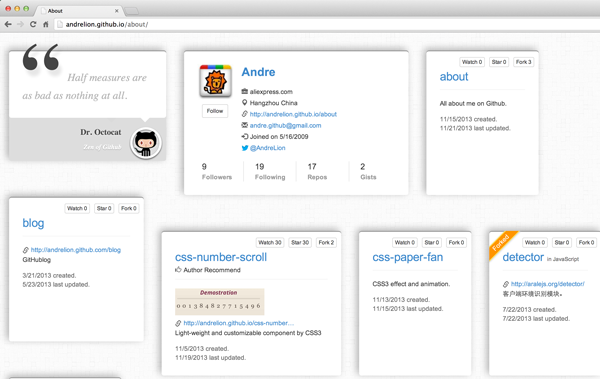
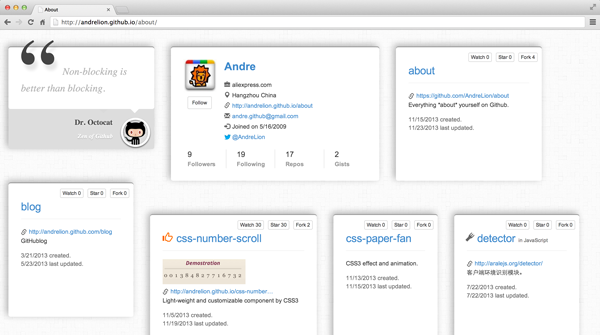
update

diff --git a/css/style.css b/css/style.css
@@ -1,3 +1,13 @@
+/*
+ * Stylesheet for Github About Page
+ * 
+ * https://github.com/AndreLion/about
+ * 
+ * At bottom of thie file, there is Customization Zone, 
+ * you can add your own stylesheet there to control your 
+ * repository card's style. Making the layout looks beeter. 
+ * 
+ */
 body { background:#fefefe url(../assets/bg.png) repeat 0 0 scroll; }
 .glyphicon { color:#666;margin-right:5px; }
 .box { font-family: "Helvetica Nenu",Hevetica,Arial,sans-serif;background-color:#DDD;border-radius:5px;margin:40px 20px;box-shadow:-5px -4px 25px rgba(0, 0, 0, 0.3); }
@@ -45,7 +55,8 @@ body { background:#fefefe url(../assets/bg.png) repeat 0 0 scroll; }
 .namecard .twitter .text:before { content:'@'; }
 
 .repocard { float:left;background-color:#FFF;overflow:hidden; }
-.repocard.forked:before { -webkit-transform:rotate(-45deg);content:'Forked';position:absolute;top:14px;background-color:#fd9419;padding:0 25px;left:-24px;color:#FFF;border:2px solid #fbe26e;box-shadow:0px 1px 5px #CCC; }
+/*.repocard.forked:before { -webkit-transform:rotate(-45deg);content:'Forked';position:absolute;top:14px;background-color:#fd9419;padding:0 25px;left:-24px;color:#FFF;border:2px solid #fbe26e;box-shadow:0px 1px 5px #CCC; }*/
+.repocard.forked .fkd { font-size:24px;width:16px;overflow:hidden;-webkit-transform: rotate(45deg);transform: rotate(45deg); }
 .repocard .inner { padding-top:40px; }
 .repocard .action { float:right;margin-right:10px;margin-top:15px; }
 .repocard .action span { padding-left:3px; }
@@ -59,16 +70,23 @@ body { background:#fefefe url(../assets/bg.png) repeat 0 0 scroll; }
 .repocard .created_at { color:#666;margin-top:15px; }
 .repocard .updated_at { color:#666; }
 .repocard.proud .name { font-size:38px; }
-.repocard .rcmd { display:none; }
-.repocard.recommend .rcmd { display:block; }
+.repocard.recommend .rcmd { font-size:24px;color:#f60; }
+
+.aboutcard { line-height:26px; }
 
 .resp404 { font-size:18px; }
 .resp404 img { width:160px;height:160px;display:inline-block; }
 
 
-/*----------------------------------------*/
+/*
+ * Customization Zone
+ * Rule : 'repo-' is prefix, you can find your repository card by class name 'repo-your-github-repo-name'
+ */
+
+/*----Example---*/
 .repo-facebook-weibo-login { width:600px !important; }
 .repo-facebook-weibo-login .image { width:250px; }
 .repo-css-number-scroll { width:400px !important; }
 .repo-css-number-scroll .image { height:60px;width:199px; }
 .repo-css-number-scroll .homepage { display:block;margin-top:87px; }
+/*----Example---*/

diff --git a/js/about.js b/js/about.js
@@ -1,4 +1,10 @@
-_USER_DEFINE_ = _USER_DEFINE_ || {};
+/*
+ * Javascript for Github About Page
+ * 
+ * https://github.com/AndreLion/about
+ * 
+ */
+var _CUSTOMSIZE_CONFIGURATION_ = _CUSTOMSIZE_CONFIGURATION_ || {};
 var apiDomain = 'https://api.github.com';
 var username;
 var preview = false;
@@ -8,7 +14,6 @@ if(location.search.indexOf('?gid=') === 0 ){
 }else if(location.hostname.indexOf('github.io') !== -1){
 	username = location.hostname.split('.')[0];
 }else{
-	//username = 'weierophinney';
 	username = 'andrelion';
 }
 var GITHUB_CALLBACK = {};
@@ -74,7 +79,7 @@ GITHUB_CALLBACK['_users_'+username]= function(resp){
 		node.find('.hireable').remove();
 	}
 	var t;
-	if(_USER_DEFINE_.info && _USER_DEFINE_.info[user.login] && (t =_USER_DEFINE_.info[user.login].twitter)){
+	if(_CUSTOMSIZE_CONFIGURATION_.userinfo && _CUSTOMSIZE_CONFIGURATION_.userinfo[user.login] && (t =_CUSTOMSIZE_CONFIGURATION_.userinfo[user.login].twitter)){
 		node.find('.twitter').attr('href','http://twitter.com/'+t).find('.text').text(t);
 	}else{
 		node.find('.twitter').remove();
@@ -125,7 +130,7 @@ var renderZen = function(quote){
 };
 
 var renderAbout = function(){
-	var node = $('#tpl-wrap .about').clone();
+	var node = $('#tpl-wrap .aboutcard').clone();
 	node.appendTo('body>.content');
 	$('.content').packery('appended',node);
 	$('#progress').css({
@@ -150,7 +155,7 @@ var renderRepos = function(){
 	}
 	for(i=0,l=repos.length;i<l;i++){
 		r = repos[i];
-		if(_USER_DEFINE_.ignore && _USER_DEFINE_.ignore[r.name]){
+		if(_CUSTOMSIZE_CONFIGURATION_.ignore && _CUSTOMSIZE_CONFIGURATION_.ignore[r.name]){
 			repos.splice(i,1);
 			l--;
 			continue;
@@ -199,15 +204,19 @@ var renderRepos = function(){
 		}
 		if(repo.fork){
 			node.addClass('forked');
+		}else{
+			node.find('.fkd').remove();
 		}
 		if(threshold !== -1 && repo.score >= threshold){
 			node.addClass('proud').find('.description').addClass('lead');
 		}
-		if(_USER_DEFINE_.recommend && _USER_DEFINE_.recommend[repo.name]){
+		if(_CUSTOMSIZE_CONFIGURATION_.recommend && _CUSTOMSIZE_CONFIGURATION_.recommend[repo.name]){
 			node.addClass('recommend');
+		}else{
+			node.find('.rcmd').remove();
 		}
-		if(_USER_DEFINE_.image && _USER_DEFINE_.image[repo.name]){
-			node.find('.image').attr('src',_USER_DEFINE_.image[repo.name]);
+		if(_CUSTOMSIZE_CONFIGURATION_.image && _CUSTOMSIZE_CONFIGURATION_.image[repo.name]){
+			node.find('.image').attr('src',_CUSTOMSIZE_CONFIGURATION_.image[repo.name]);
 		}else{
 			node.find('.image').remove();
 		}

diff --git a/index.html b/index.html
@@ -67,10 +67,11 @@
 			<a target="blank" href="#" class="btn btn-default btn-xs watch action html_url" role="button">Watch<span class="watchers_count"></span></a>
 			<div class="inner">
 				<span class="repo-name">
+					<span class="glyphicon glyphicon-cutlery fkd" title="Forked"></span>
+					<span class="glyphicon glyphicon-thumbs-up rcmd" title="Author Recommend"></span>
 					<a target="blank" class="name html_url"></a>
 					<span class="language"></span>
 				</span>
-				<div class="rcmd"><span class="glyphicon glyphicon-thumbs-up"></span>Author Recommend</div>
 				<hr />
 				<img class="image img-responsive" /> 
 				<span class="homepage"><span class="glyphicon glyphicon-link"></span><a target="blank"></a></span>
@@ -85,15 +86,15 @@
 				<span class="name"></span> doesn’t have any public repositories yet.
 			</div>
 		</div>
-		<div class="about box">
+		<div class="aboutcard box">
 			<div class="inner">
-				This is a github repo called About created by AndreLion.
+				This is a <a href="https://github.com/AndreLion/about" target="_blank">Github About Page</a> written by <a href="http://andrelion.github.io/about" target="_blank">Andre</a>.
 				<br />
-				Powered by GIthub API, Bootstrap and Packery.
+				Powered by jQuery, Bootstrap, Github API and <a href="packery.metafizzy.co" target="_blank">Packery</a>.
 				<br />
-				<a target="_top" href="preview/"> Preview Your Page</a>
-				<br />
-				<a target="_blank" href="https://github.com/AndreLion/about">How to deploy your own about page?</a>
+				GPL v3 Licesend.
+				<hr />
+				<a target="_top" href="preview/">Preview your own page</a> & <a target="_blank" href="https://github.com/AndreLion/about#how-to-get-your-own-github-about-page">make it real</a>.
 			</div>
 		</div>
 		<div class="nouser resp404 box">

diff --git a/preview/index.html b/preview/index.html
@@ -19,7 +19,7 @@
 			<input type="text" class="form-control" name="gid" placeholder="Your Github User ID" />
 		</div>
 		<button type="submit" class="btn btn-primary btn-large" id="preview">Preview</button>
-		<a href="https://github.com/AndreLion/about">Back to Github About Introduction</a>
+		<a href="https://github.com/AndreLion/about">Back to Github About Page Introduction</a>
 	</form>
 	<iframe id="f" src="blank.html" ></iframe>
 </body>

diff --git a/README.md b/README.md
@@ -1,4 +1,7 @@
-How to use
-==============
+This is the 'gh-pages' branch of Github About Page.
 
+All the code are in this branch, not the master.
 
+If this is your first time being here, 
+
+please delete the delete_me.md file to activate your Github ABout Page.

diff --git a/delete_me.md b/delete_me.md
@@ -1,1 +1,1 @@
-Delete me to active you page.
+Delete me to activate you Github About Page.
